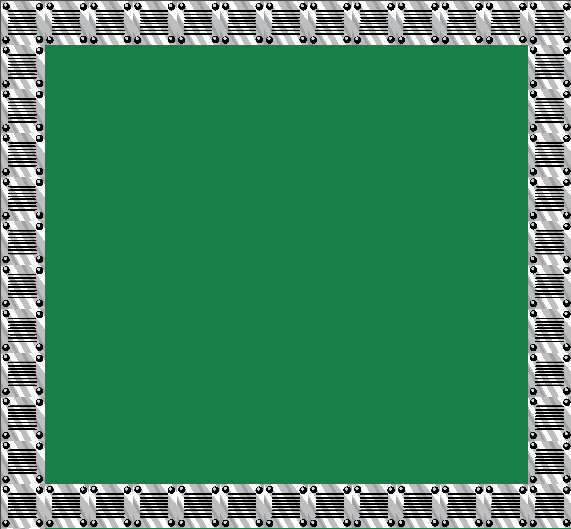
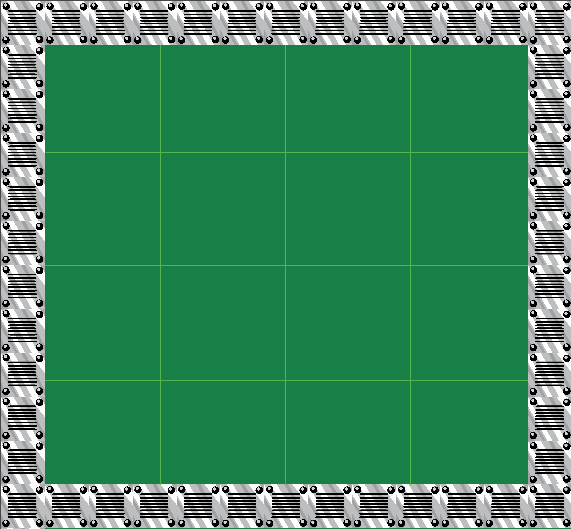
Problem domain docs update.

diff --git a/docs/GenIATraP_bomberman_problem_domain.md b/docs/GenIATraP_bomberman_problem_domain.md
@@ -1,19 +1,53 @@
 # Bomberman Problem Domain
 The Bomberman problem domain is a strategic simulation where agents interact within a maze-like environment. The agents' primary objective is to place bombs strategically, destroy obstacles, avoid damage from explosions, and eliminate or outlast other agents. This problem domain involves handling various game mechanics such as power-ups, health management, bomb placement, and agent movement. It is typically used to train agents in decision-making and survival tactics in a dynamic and competitive environment.
 
-<img src="/docs/images/Bomberman.png" alt="Bomberman" width="600"/>
+<center><img src="/docs/images/bombermanProblemDomain/bomberman_problem_domain_main.png" alt="Bomberman" width="600"/></center>
 ## Objective
 The main objective for agents in the Bomberman domain is to navigate the environment, avoid being destroyed by explosions, and outlast opponents. Agents must make decisions on when to place bombs, how to avoid their own bombs, and how to manage power-ups to enhance their chances of survival. The problem domain rewards strategic actions like bomb placement, surviving, and collecting power-ups while penalizing self-destructive behaviors, such as being hit by bombs or placing bombs in ineffective positions.
 
 ## Environment Details
-The Bomberman environment is a grid-based arena where agents are positioned alongside destructible blocks. Here are the core elements that make up the environment:
-- Arena: The game takes place in a rectangular arena where agents can move freely and place bombs. Destructible blocks occupy the arena and can be destroyed by explosions.
-- Bombs: Agents can place bombs that explode after a set period, damaging blocks, other agents, and the agent who placed the bomb.
-- Explosions: The explosion affects the surrounding area in the form of a blast radius. The explosion destroys blocks, damages agents, and may trigger chain reactions.
-- Power-Ups: Randomly spawned items that enhance the agents' abilities, such as increasing bomb power, health, or the number of bombs they can place at once.
-- Agents: Agents can move within the arena, avoid bomb explosions, place bombs, and collect power-ups. They begin with a set amount of health, bombs, and movement speed.
-- Ray Sensors - Agents can only perceive the environment using ray sensors that can be shot in multiple directions. Rays can detect other agents, walls, obstacles, power-ups, etc.
+The environment consists of a **grid-based arena** where agents are positioned in predefined locations. The arena contains three types of blocks:
 
+- **Walkable** blocks, which agents can traverse freely.
+- **Destructible** blocks, which can be destroyed by explosions.
+- **Indestructible** blocks, which are permanent obstacles that must be avoided.
+
+### Agent
+ Agents can move within the arena, avoid explosions, place bombs, and collect power-ups. Each agent starts with a predefined amount of health, a limited number of bombs, and a base movement speed.
+
+<center><img src="/docs/images/bombermanProblemDomain/bomberman_problem_domain_agent.png" alt="Bomberman" width="100"/></center>
+#### Environment Perception
+Agents perceives their surroundings using **Grid Sensor**. During configuration, **grid size** and **cell size** are defined. If a cell intersects with a detectable object (grid cell color is set to red), it returns information regarding the object and additional detection details. If no object is detected, grid sensor returns an empty result for that cell. Grid cells can detect other agents, power-ups, bombs, and blocks (destructible and indestructible).
+
+<center><img src="/docs/images/bombermanProblemDomain/bomberman_problem_domain_object_detection.png" alt="Bomberman" width="400"/></center>
+
+### Bomb
+Agents can place **bombs**, which detonate after a set period, damaging nearby blocks, opponents, and even the agent who placed them. If an agent collides with a bomb while moving, the bomb will be pushed in the direction of the agent’s movement. The blast radius of a bomb depends on the placing agent’s **blast radius** property.
+
+<center><img src="/docs/images/bombermanProblemDomain/bomberman_problem_domain_object_bomb.png" alt="Bomberman" width="100"/></center>
+### Explosion
+**Explosions** affect the surrounding area within the bomb’s **blast radius**. They can destroy destructible blocks, damage agents, and trigger chain reactions if other bombs are within range.
+
+<center><img src="/docs/images/bombermanProblemDomain/bomberman_problem_domain_object_explosion.png" alt="Bomberman" width="300"/></center>
+### Blocks
+The simulation environment contains three types of blocks:
+- **Destructible Blocks** – Obstacles that can be destroyed by explosions (first image).
+- **Indestructible Blocks** – Permanent barriers that cannot be destroyed and must be avoided (second image).
+- **Walkable Blocks** – Open spaces where agents can move freely (third image).
+
+<center><img src="/docs/images/bombermanProblemDomain/bomberman_problem_domain_object_destructible_block.png" alt="Bomberman" width="100"/>
+<img src="/docs/images/bombermanProblemDomain/bomberman_problem_domain_object_border_block.png" alt="Bomberman" width="100"/>
+<img src="/docs/images/bombermanProblemDomain/bomberman_problem_domain_object_walkable_block.png" alt="Bomberman" width="100"/></center>
+### Power-ups
+The environment contains randomly spawned **power-ups** that enhance an agent’s abilities, such as:
+- Increasing the maximum number of bombs an agent can place (first image).
+- Expanding the explosion blast radius (second image).
+- Boosting movement speed (third image).
+
+<center><img src="/docs/images/bombermanProblemDomain/bomberman_problem_domain_power_up_bomb_increase.png" alt="Bomberman" width="100"/>
+<img src="/docs/images/bombermanProblemDomain/bomberman_problem_domain_power_up_damage_increase.png" alt="Bomberman" width="100"/>
+<img src="/docs/images/bombermanProblemDomain/bomberman_problem_domain_power_up_speed_increase.png" alt="Bomberman" width="100"/>
+</center>
 ## Fitness Evaluation
 Fitness evaluation in the Bomberman problem domain is used to measure an agent's performance in the simulation. The fitness values are based on the agent's behavior and achievements throughout the game. Here are some key fitness components:
 

diff --git a/docs/GenIATraP_collector_problem_domain.md b/docs/GenIATraP_collector_problem_domain.md
@@ -1,18 +1,35 @@
 # Collector Problem Domain
 
-The Collector problem domain is a single-agent environment where an agent navigates a bounded arena to collect scattered objects. This problem is designed to test an agent’s ability to efficiently explore the environment, optimize movement, and maximize the number of collected objects within a given time frame.
+The **Collector problem domain** is a **single-agent environment** where an agent navigates a bounded arena to collect scattered objects. This problem is designed to test an agent’s ability to efficiently explore the environment, optimize movement, and maximize the number of collected objects within a given time frame.
 
-<img src="/docs/images/Collector.png" alt="Soccer" width="600"/>
+<center><img src="/docs/images/collectorProblemDomain/collector_problem_domain_main.png" alt="Collector" width="600"/></center>
 ## Objective
 The main objective of the Collector environment is for the agent to collect as many objects as possible before the simulation ends. The agent must efficiently navigate the space while minimizing unnecessary movement and avoiding potential penalties such as collisions. This problem domain is useful for evaluating pathfinding strategies, decision-making heuristics, and reinforcement learning approaches.
 
 ## Environment Details
-- Arena – Bounded environment where objects spawn randomly.
-- Collectibles – Objects that appear at different locations and must be collected by the agent.
-- Agent Movement – The agent can move freely within the arena to reach and collect objects.
-- Ray Sensors -  Agents can only perceive the environment using ray sensors that can be shot in multiple directions. Rays can detect other agents, walls, obstacles, and targets.
-- Simulation Duration – The environment runs for a fixed number of simulation steps.
-- Collision Handling – The agent may receive penalties for colliding with walls or other obstacles (if enabled).
+
+The environment consists of an **agent**, **crates** (obstacles), and a **target**. The agent's movement is restricted by the arena’s boundaries (as shown in the image below). The environment is divided into different sectors, which track the agent’s exploration progress.
+ 
+<center><img src="/docs/images/collectorProblemDomain/collector_problem_domain_exploration_progress.png" alt="Collector" width="600"/></center>
+
+### Agent
+The simulation features a single agent tasked with collecting as many **targets** as possible within a given time. The agent moves through the arena while avoiding obstacles and optimizing its trajectory. It can move forward, backward, and rotate left or right.
+<center><img src="/docs/images/collectorProblemDomain/collector_problem_domain_agent.png" alt="Collector" width="200"/></center>
+#### Environment Perception
+Agents perceives their surroundings using a **Ray Perception Sensor**. During configuration, a specific number of rays and their respective angles are defined. Basic raycasting can be replaced with **spherical rays**, which emit in a predefined direction. If a ray intersects with a detectable object (ray color is set to green), it returns information regarding the object and additional detection details. If no object is detected, the ray perception sensor returns an empty result. Rays can detect obstacles, target and walls.
+
+<center><img src="/docs/images/collectorProblemDomain/collector_problem_domain_object_detection.png" alt="Collector" width="600"/></center>
+
+### Collectible (Target)
+The **target** is the primary object that the agent must collect. After a target is collected, one of two possible outcomes occurs:
+
+1. The target is respawned at a new random location within the arena, encouraging the agent to develop smarter search strategies.
+2. The simulation ends, rewarding the agent for quickly locating and collecting the target.
+<center><img src="/docs/images/collectorProblemDomain/collector_problem_domain_target.png" alt="Collector" width="200"/></center>
+### Crate 
+A **crate** serves as an obstacle that the agent must navigate around to reach the **target**. Increasing the number of crates adds complexity to the environment, requiring more advanced pathfinding and decision-making strategies.
+
+<center><img src="/docs/images/collectorProblemDomain/collector_problem_domain_obstacle.png" alt="Collector" width="200"/></center>
 
 ## Fitness Evaluation
 The agent's performance is assessed using the following fitness metrics:

diff --git a/docs/GenIATraP_soccer_problem_domain.md b/docs/GenIATraP_soccer_problem_domain.md
@@ -1,12 +1,12 @@
 # Soccer problem domain
 
-The Soccer problem domain is a multi-agent environment based on a simplified version of soccer, inspired by the [Soccer Twos](https://github.com/Unity-Technologies/ml-agents/blob/develop/docs/Learning-Environment-Examples.md#soccer-twos) problem domain implemented in [ML-Agents](https://github.com/Unity-Technologies/ml-agents/tree/develop). It features two teams competing against each other in a dynamic environment. The main objective of the agents is to cooperate with their teammates and defeat the opposing team, either by scoring goals or preventing the other team from scoring. This problem domain allows for the implementation and testing of multi-agent systems, team strategies, and various agent control schemes.
+The **Soccer problem domain** is a **multi-agent environment** based on a simplified version of soccer, inspired by the [Soccer Twos](https://github.com/Unity-Technologies/ml-agents/blob/develop/docs/Learning-Environment-Examples.md#soccer-twos) problem domain implemented in [ML-Agents](https://github.com/Unity-Technologies/ml-agents/tree/develop). It features two teams competing against each other in a dynamic environment. The main objective of the agents is to cooperate with their teammates and defeat the opposing team, either by scoring goals or preventing the other team from scoring. This problem domain allows for the implementation and testing of multi-agent systems, team strategies, and various agent control schemes.
 
 <center><img src="/docs/images/soccerProblemDomain/soccer_problem_domain_main.png" alt="Soccer" width="600"/></center>
 ## Objective
 The **Soccer problem domain** aims to simulate a soccer match where agents cooperate to score goals against an opposing team. Agents must employ effective strategies, including ball control, positioning, and teamwork, to outmaneuver their opponents. The simulation challenges agents to make quick decisions and adapt to their teammates' actions, the opponents’ strategies, and the evolving game state.
 ## Environment Details
-The environment consists of a soccer field with two goals, a ball, and two opposing teams of agents. The field is bounded by defined edges, and agents must navigate this space while executing actions such as running, kicking the ball, and coordinating with teammates.
+The environment consists of a **soccer field** with two **goals**, a **ball**, and two **opposing teams**. The **soccer field** is bounded by defined edges, and agents must navigate this space while executing actions such as running, kicking the ball, and coordinating with teammates. The environment is divided into different sectors, which track the agent’s exploration progress.
 
 <center><img src="/docs/images/soccerProblemDomain/soccer_problem_domain_exploration_progress.png" alt="Soccer" width="600"/></center>
 
@@ -24,6 +24,10 @@ The **soccer ball** is the focal point of the game, requiring agents to learn ef
 The simulation features two opposing teams, each consisting of two agents. Agents are responsible for scoring as many goals as possible. An agent can strike the ball upon collision, with the impact force determined by its velocity. Additionally, hitting the ball at different angles influences its trajectory.
 
 <center><img src="/docs/images/soccerProblemDomain/soccer_problem_domain_agents.png" alt="Soccer" width="400"/></center>
+#### Environment Perception
+Agents perceives their surroundings using a **Ray Perception Sensor**. During configuration, a specific number of rays and their respective angles are defined. Basic raycasting can be replaced with **spherical rays**, which emit in a predefined direction. If a ray intersects with a detectable object (ray color is set to green), it returns information regarding the object and additional detection details. If no object is detected, the ray perception sensor returns an empty result. Rays can detect other agents, ball, goals and walls.
+
+<center><img src="/docs/images/soccerProblemDomain/soccer_problem_domain_object_detection.png" alt="Soccer" width="600"/></center>
 ## Key Features:
 - **Two Teams**: The simulation supports two teams of agents, with each team having its own set of controlled agents.
 - **Ball Handling**: Agents are required to interact with the ball to move it across the field and score goals.

diff --git a/docs/GenIATraP_robostrike_problem_domain.md b/docs/GenIATraP_robostrike_problem_domain.md
@@ -1,6 +1,6 @@
 # Robostrike Problem Domain
 
-The Robostrike problem domain is a dynamic, multi-agent simulation where robots compete in a combat environment. Agents, in the form of robots, are equipped with various abilities like shooting, moving, and interacting with the environment. The goal is to destroy enemy robots while avoiding damage from opponents and environmental hazards. This problem domain is ideal for evaluating agents that need to exhibit strategic thinking, resource management, and tactical combat decision-making in a real-time environment.
+The **Robostrike problem domain** is a dynamic, **multi-agent** environment where robots compete in a combat environment. Agents, in the form of robots, are equipped with various abilities like shooting, moving, and interacting with the environment. The **goal** is to destroy enemy robots while avoiding damage from opponents and environmental hazards. This problem domain is ideal for evaluating agents that need to exhibit strategic thinking, resource management, and tactical combat decision-making in a real-time environment.
 
 <center><img src="/docs/images/robostrikeProblemDomain/robostrike_problem_domain_main.png" alt="Robostrike" width="600"/></center>
 ## Objective
@@ -8,7 +8,7 @@ The primary objective for agents in the Robostrike domain is to survive and defe
 ## Environment Details
 The Robostrike environment consists of a battlefield where agents (tanks) compete in combat. Core elements that compose the environment are described bellow.
 ### Environment
-The combat environment is a bounded 2D space where agents can move, hide, and interact. The layout may include obstacles that provide strategic positioning advantages. Agents can only move within the designated **green surface**, which defines the battle arena.
+The combat environment is a bounded 2D space where agents can move, hide, and interact. The layout may include obstacles that provide strategic positioning advantages. Agents can only move within the designated **green surface**, which defines the battle arena. The environment is divided into different sectors, which track the agent’s exploration progress.
 
 <center><img src="/docs/images/robostrikeProblemDomain/robostrike_problem_domain_environment.png" alt="Robostrike" width="400"/></center>
 ### Agent
@@ -24,7 +24,7 @@ When an agent picks up an **ammo power-up**, it gains the ability to fire projec
 <center><img src="/docs/images/robostrikeProblemDomain/robostrike_problem_domain_missile.png" alt="Robostrike" width="100"/></center>
 
 #### Environment Perception
-Agents perceives their surroundings using a **Ray Perception Sensor**. During configuration, a specific number of rays and their respective angles are defined. Basic raycasting can be replaced with **spherical rays**, which emit in a predefined direction. If a ray intersects with a detectable object, it returns information regarding the object and additional detection details. If no object is detected, the ray perception sensor returns an empty result. Rays can detect other agents, power-ups, missiles, obstacles and walls.
+Agents perceives their surroundings using a **Ray Perception Sensor**. During configuration, a specific number of rays and their respective angles are defined. Basic raycasting can be replaced with **spherical rays**, which emit in a predefined direction. If a ray intersects with a detectable object (ray color is set to green), it returns information regarding the object and additional detection details. If no object is detected, the ray perception sensor returns an empty result. Rays can detect other agents, power-ups, missiles, obstacles and walls.
 
 <center><img src="/docs/images/robostrikeProblemDomain/robostrike_problem_domain_object_detection.png" alt="Robostrike" width="400"/></center>
 
